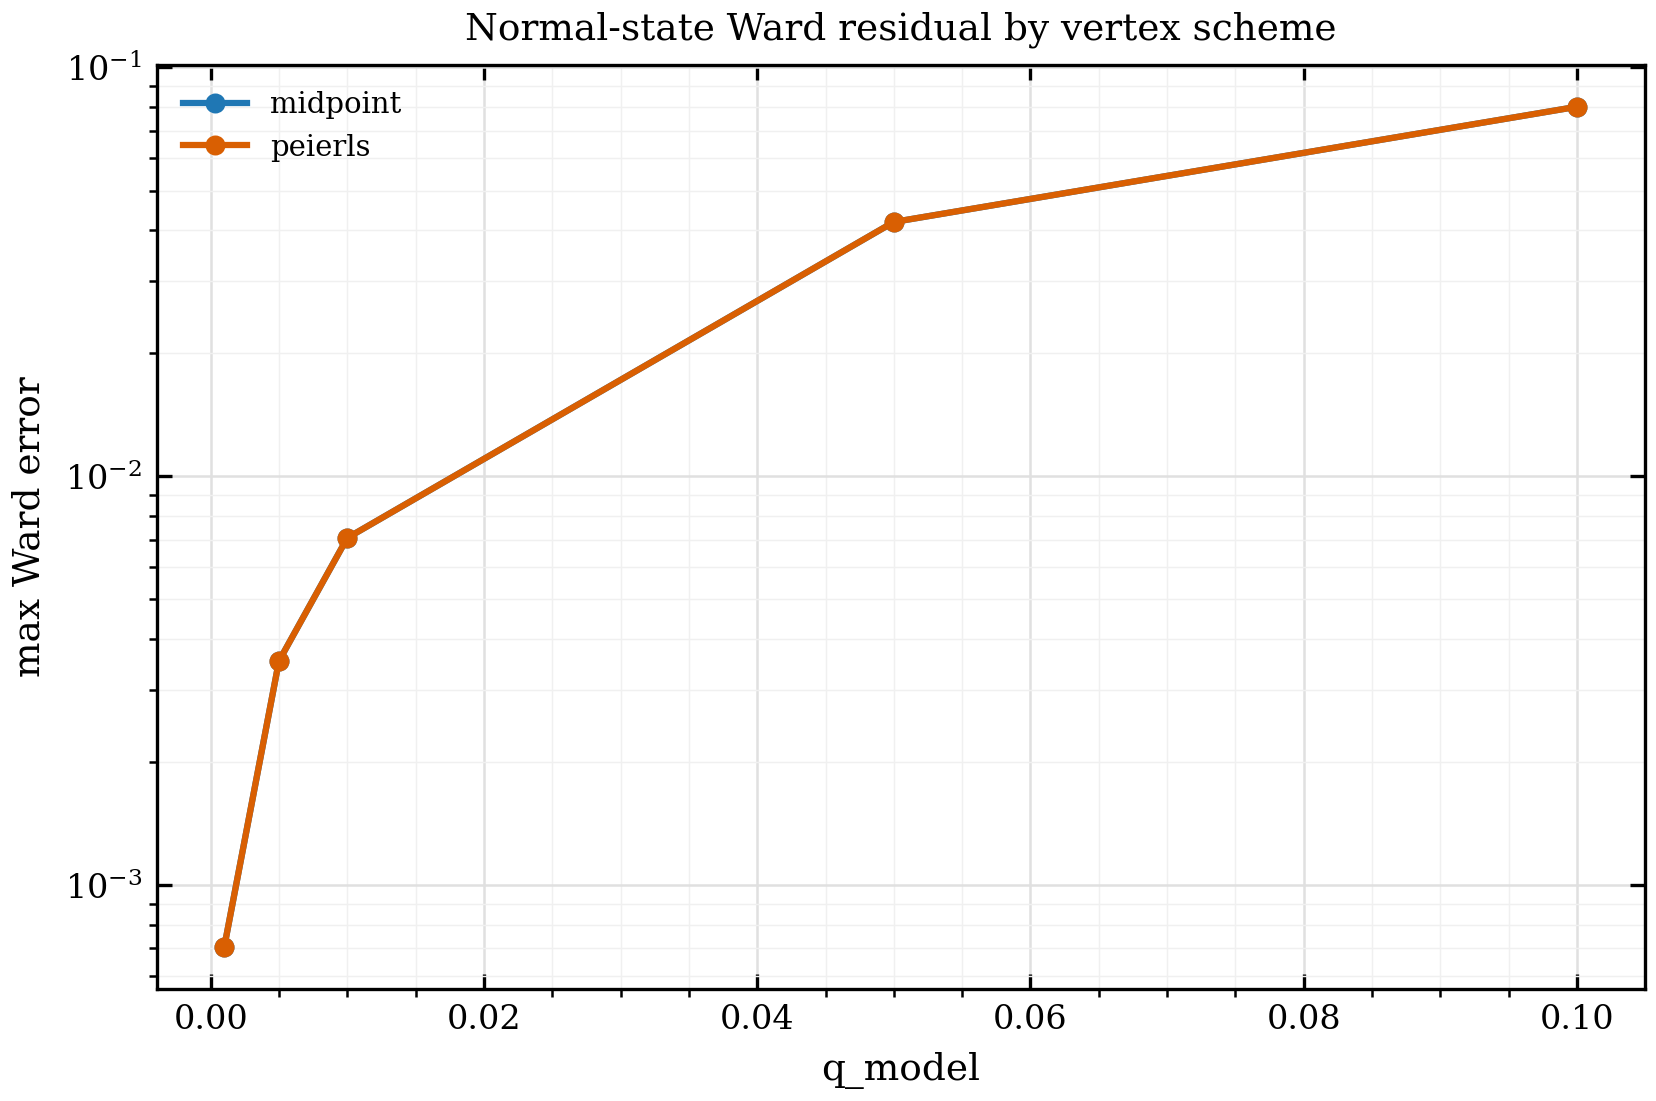
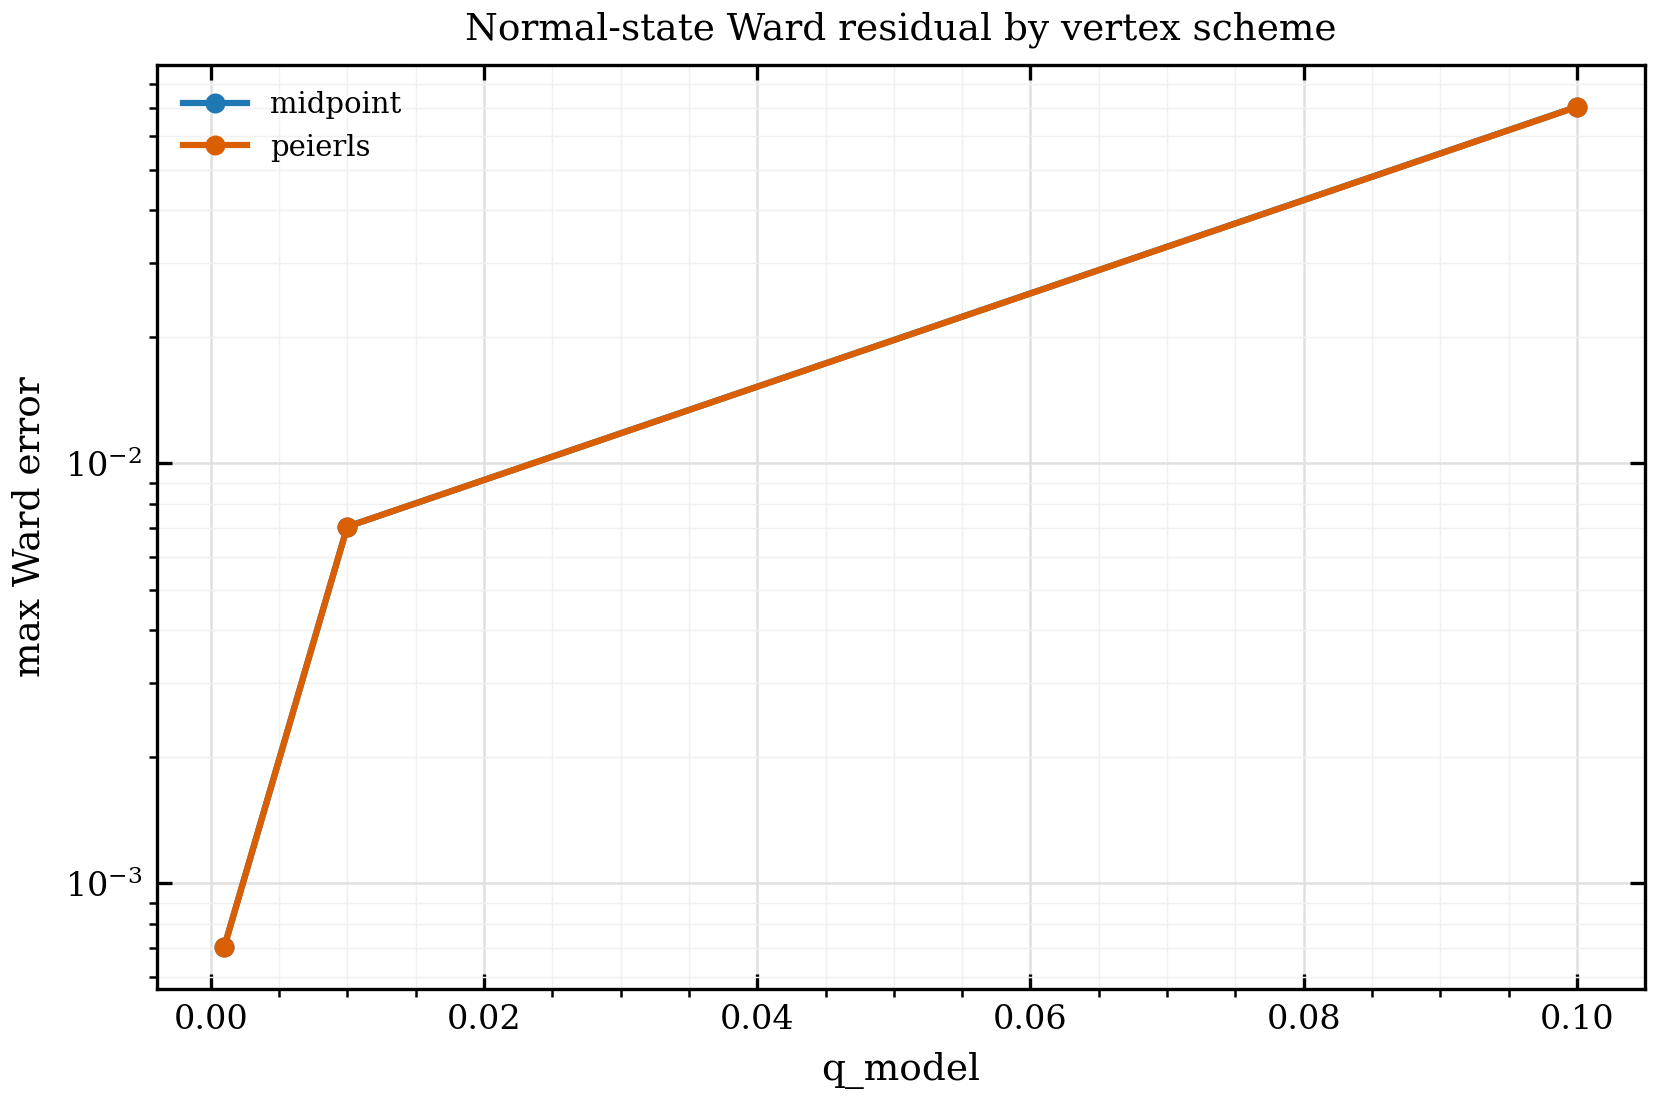
commit

diff --git a/validation/scripts/response/diagnose_normal_ward_identity.py b/validation/scripts/response/diagnose_normal_ward_identity.py
@@ -11,6 +11,7 @@ from pathlib import Path
 import re
 import shlex
 import sys
+from typing import Any
 
 import numpy as np
 
@@ -217,7 +218,7 @@ def _write_csv(path: Path, data: dict[str, np.ndarray], columns: tuple[str, ...]
 
 def _write_npz(path: Path, data: dict[str, np.ndarray]) -> None:
     path.parent.mkdir(parents=True, exist_ok=True)
-    payload: dict[str, object] = dict(data)
+    payload: dict[str, Any] = dict(data)
     np.savez(path, **payload)
 
 

diff --git a/validation/outputs/response/normal_ward_identity/summary.md b/validation/outputs/response/normal_ward_identity/summary.md
@@ -6,8 +6,8 @@ It is not conductivity and not a reflection/Casimir input.
 The contact term is not included.
 Large Ward residuals may reflect finite-q vertex/contact-term closure gaps, not a material conclusion.
 
-run_command = `python validation/scripts/response/diagnose_normal_ward_identity.py`
-quick_mode=False
+run_command = `python validation/scripts/response/diagnose_normal_ward_identity.py --quick`
+quick_mode=True
 expanded_data_written=False
 density_current_included=True
 current_current_included=True
@@ -22,27 +22,27 @@ not_final_finite_q_conductivity=True
 
 ## Parameter grid
 - vertex_schemes = midpoint peierls
-- matsubara_n_list = 1 2 4
+- matsubara_n_list = 1
 - temperature_K = 30
-- q_list = 0.001 0.005 0.01 0.05 0.1
-- q_angle_list = 0 0.785398 1.5708
-- nk_list = 8 12 16
+- q_list = 0.001 0.01 0.1
+- q_angle_list = 0 0.785398
+- nk_list = 8
 - degeneracy_tol_eV = 1e-10
 
 ## Ward residual summary by vertex scheme
-- midpoint: max left Ward error = 0.0801347
-- midpoint: max right Ward error = 0.0801347
-- midpoint: max Ward error = 0.0801347
-- peierls: max left Ward error = 0.0801344
-- peierls: max right Ward error = 0.0801344
-- peierls: max Ward error = 0.0801344
+- midpoint: max left Ward error = 0.070597
+- midpoint: max right Ward error = 0.070597
+- midpoint: max Ward error = 0.070597
+- peierls: max left Ward error = 0.0705549
+- peierls: max right Ward error = 0.0705549
+- peierls: max Ward error = 0.0705549
 
 ## q_model max-error trend
-- midpoint: q=0.001:0.00070669, q=0.005:0.00353343, q=0.01:0.00706672, q=0.05:0.0418758, q=0.1:0.0801347
-- peierls: q=0.001:0.00070669, q=0.005:0.00353342, q=0.01:0.00706668, q=0.05:0.0418803, q=0.1:0.0801344
+- midpoint: q=0.001:0.00070669, q=0.01:0.00706672, q=0.1:0.070597
+- peierls: q=0.001:0.00070669, q=0.01:0.00706668, q=0.1:0.0705549
 
 ## Comparison
-- Peierls current vertex does not materially lower the max Ward residual in this prototype (midpoint/Peierls factor = 1); possible reasons include the missing contact term or remaining vertex/contact closure gaps.
+- Peierls current vertex does not materially lower the max Ward residual in this prototype (midpoint/Peierls factor = 1.0006); possible reasons include the missing contact term or remaining vertex/contact closure gaps.
 
 ## Output files
 - compact CSV: /home/liubx25/Ni_Research/Projects/Casimir_Torque_of_LNO327/validation/outputs/response/normal_ward_identity/data/normal_ward_identity_compact.csv